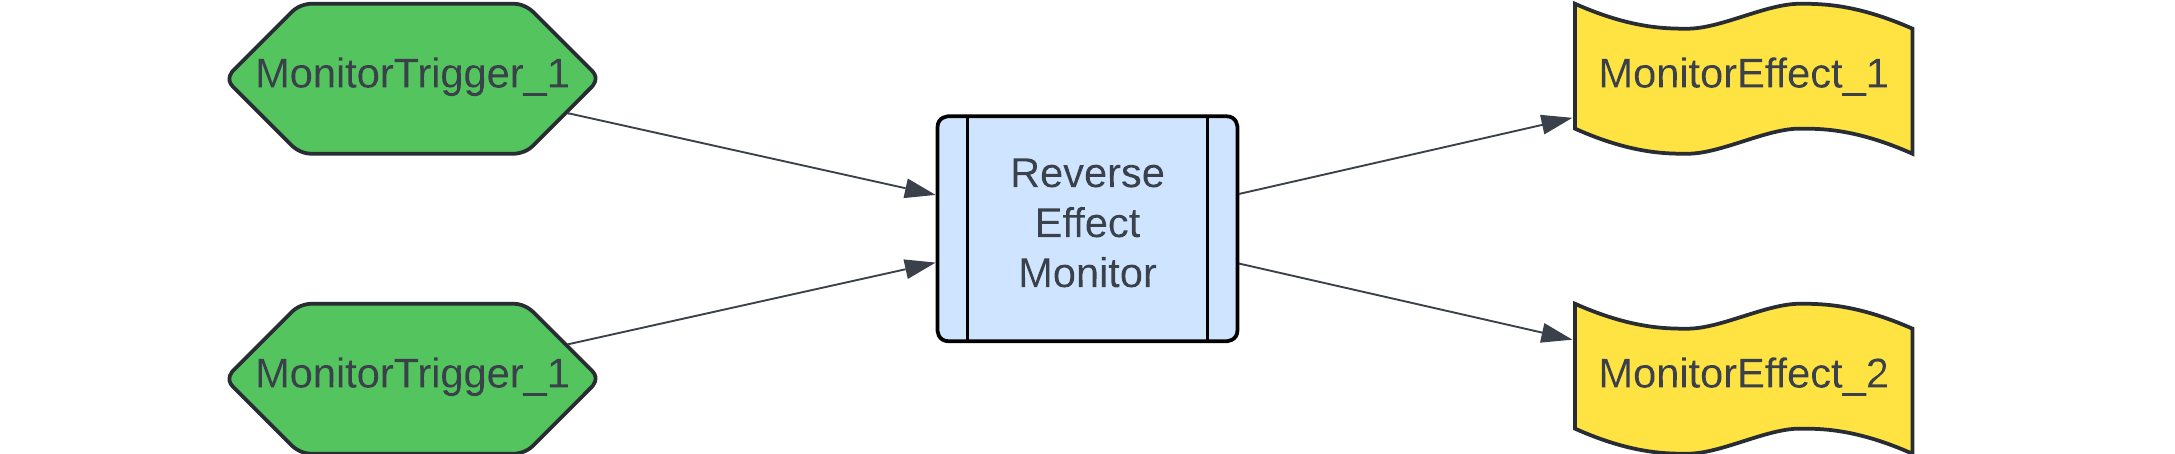
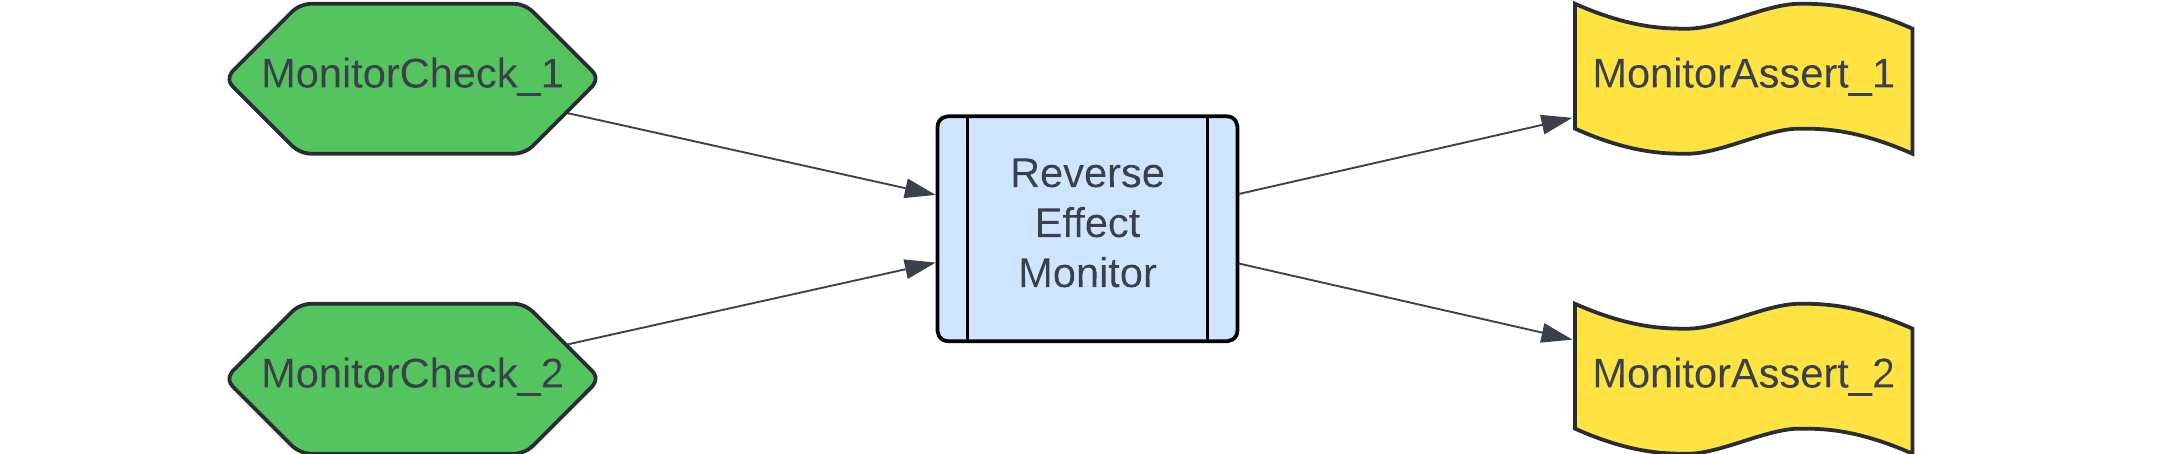
replaced Monitor<Trigger|Effect> with Monitor<Check|Assert>

diff --git a/_posts/2024-06-24-solarkraft-hybrid-monitors.md b/_posts/2024-06-24-solarkraft-hybrid-monitors.md
@@ -118,20 +118,20 @@ With reverse reasoning we will try to patch the loopholes that were left by dire
 
 In reverse monitors, we distinguish two kinds of conditions:
 
-- `MonitorTrigger_i` is a condition over past and next state variables, which triggers (activates) the monitor. If _any_ of those conditions hold, the monitor is activated. These conditions should not be confused with preconditions `MustFail/MustPass` from direct monitors: unlike those, a `MonitorTrigger` can express conditions like _"a state variable has changed its value."_
-- `MonitorEffect_i` is a condition over past and next state variables, which specifies the effect that the monitor, if activated, should check. _All_ of `MonitorEffect_i` should hold if the transaction is successful. These conditions are the same as `MustHold` in direct monitors, and express a post-condition. 
+- `MonitorCheck_i` is a condition over past and next state variables, which activates the monitor. If _any_ of those conditions hold, the monitor is activated. These conditions should not be confused with preconditions `MustFail/MustPass` from direct monitors: unlike those, a `MonitorCheck` can express conditions like _"a state variable has changed its value."_ 
+- `MonitorAssert_i` is a condition over past and next state variables, which the monitors requires . _All_ of `MonitorAssert_i` should hold if the transaction is successful. These conditions are the same as `MustHold` in direct monitors, and express a post-condition. 
 
-_Thus, the main difference wrt. direct monitors is how monitor activation is expressed: while direct monitors are activated by observing the cause (a method invocation with specific parameters), reverse monitors are activated by observing the effect (a change in state variables)._
+_Thus, the main difference wrt. direct monitors is how monitor activation is expressed: while direct monitors are activated by observing the cause (a method invocation with specific parameters), reverse monitors are activated by observing the effect (a change in state variables). Another difference is that `Monitor<Check|Assert>` conditions are method-unspecific, and can refer only to the state variables and the environment, but not to the method parameters._ 
 
-In the above, `Monitor<Trigger|Effect>` is a prefix, which tells the monitor system how to interpret this predicate. The complete pattern for predicate names with these prefixes is as follows:
+In the above, `Monitor<Check|Assert>` is a prefix, which tells the monitor system how to interpret this predicate. The complete pattern for predicate names with these prefixes is as follows:
 
 ```
-Monitor<Trigger|Effect>_<Monitor>_<ConditionDescription>
+Monitor<Check|Assert>_<Monitor>_<ConditionDescription>
 ```
 
 All predicates which refer to the same `<Monitor>` will be grouped, to create together one _effect monitor_. Interpreted formally, the monitor should do the following when activated:
 
-- If _any_ of `MonitorTrigger_i` conditions hold, check that _all_ `MonitorEffect_i` hold over the past and next states (otherwise, issue a warning / revert if configured to do so)
+- If _any_ of `MonitorCheck_i` conditions hold, ensure that _all_ `MonitorAssert_i` hold over the past and next states (otherwise, issue a warning / revert if configured to do so)
 
 Again, imposing a simple structure which combines triggers with _or_, but effects with _and_ allows you to avoid cumbersome logic inside monitor predicates.
 
@@ -145,7 +145,7 @@ Let's take a look at how reverse monitor specs help us to patch the loopholes de
 
 ### Reverse monitors for the Timelock contract
 
-We apply the general structure of reverse monitors to the [Timelock contract][timelock]; below we depict only the structure of Timelock's reverse monitors (we omit `Monitor<Trigger|Effect>` as well as the monitor names for clarity). 
+We apply the general structure of reverse monitors to the [Timelock contract][timelock]; below we depict only the structure of Timelock's reverse monitors (we omit `Monitor<Check|Assert>` as well as the monitor names for clarity). 
 
 ![Timelock reverse monitors](/img/TimelockReverseMonitors.png)
 
@@ -163,6 +163,9 @@ We will soon expand this blog post series with the final one, _"The Rise of Mode
 
 _Development of Solarkraft was supported by the [Stellar Development Foundation][] with a generous Activation Award from the [Stellar Community Fund][] of 50,000 USD in XLM._
 
+-----
+
+_Updated on 26.06.2024: replaced `Monitor<Trigger|Effect>` with `Monitor<Check|Assert>`_
 
 
 [Solarkraft]: https://github.com/freespek/solarkraft
